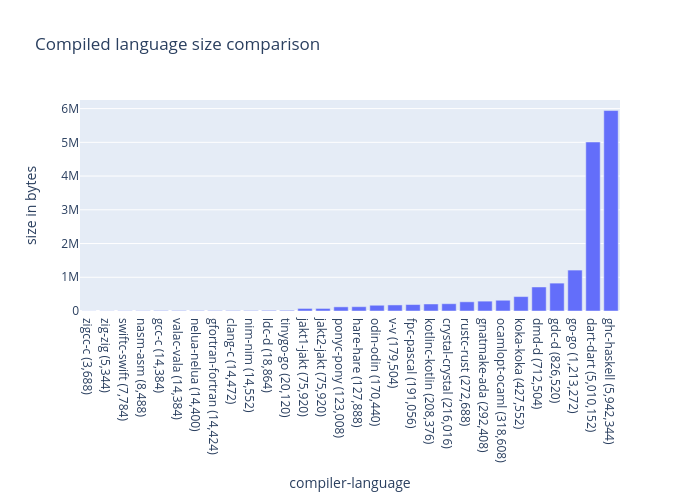
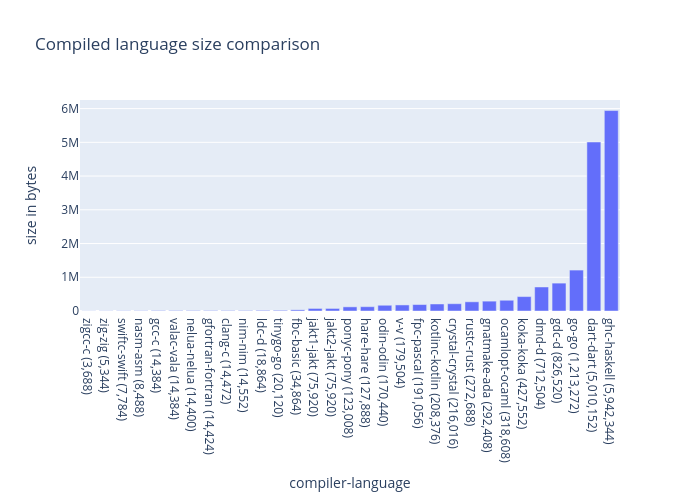
feat: add freebasic language

Changed region(s): [[0.12, 0.54, 0.87, 0.93]]

diff --git a/README.md b/README.md
@@ -31,6 +31,7 @@ Logarithmic scale:
 |nim|nim|Nim Compiler Version 1.6.8 [Linux: amd64]|14,552|
 |d|ldc|LDC - the LLVM D compiler (1.30.0):|18,864|
 |go|tinygo|tinygo version 0.26.0 linux/amd64 (using go version go1.19.2 and LLVM version 14.0.0)|20,120|
+|basic|fbc|FreeBASIC Compiler - Version 1.09.0 (2022-02-16), built for linux-x86_64 (64bit)|34,864|
 |jakt|jakt1|None|75,920|
 |jakt|jakt2|None|75,920|
 |pony|ponyc|0.43.1- [release]|123,008|
